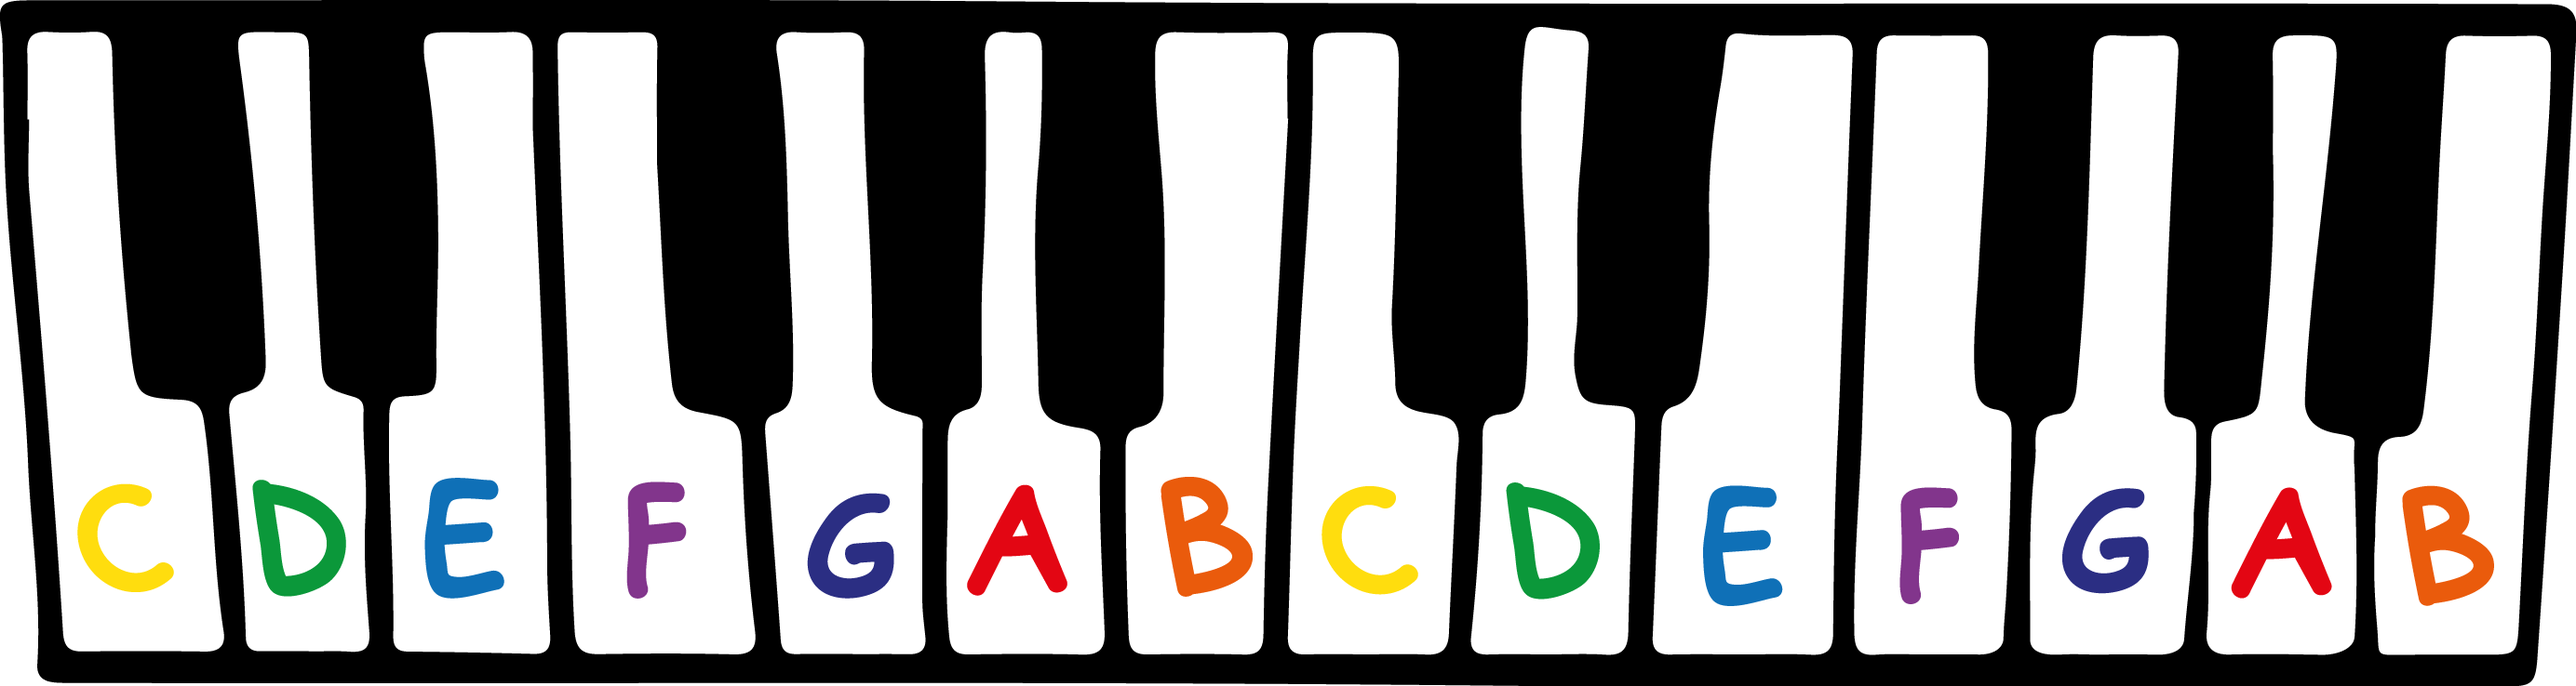
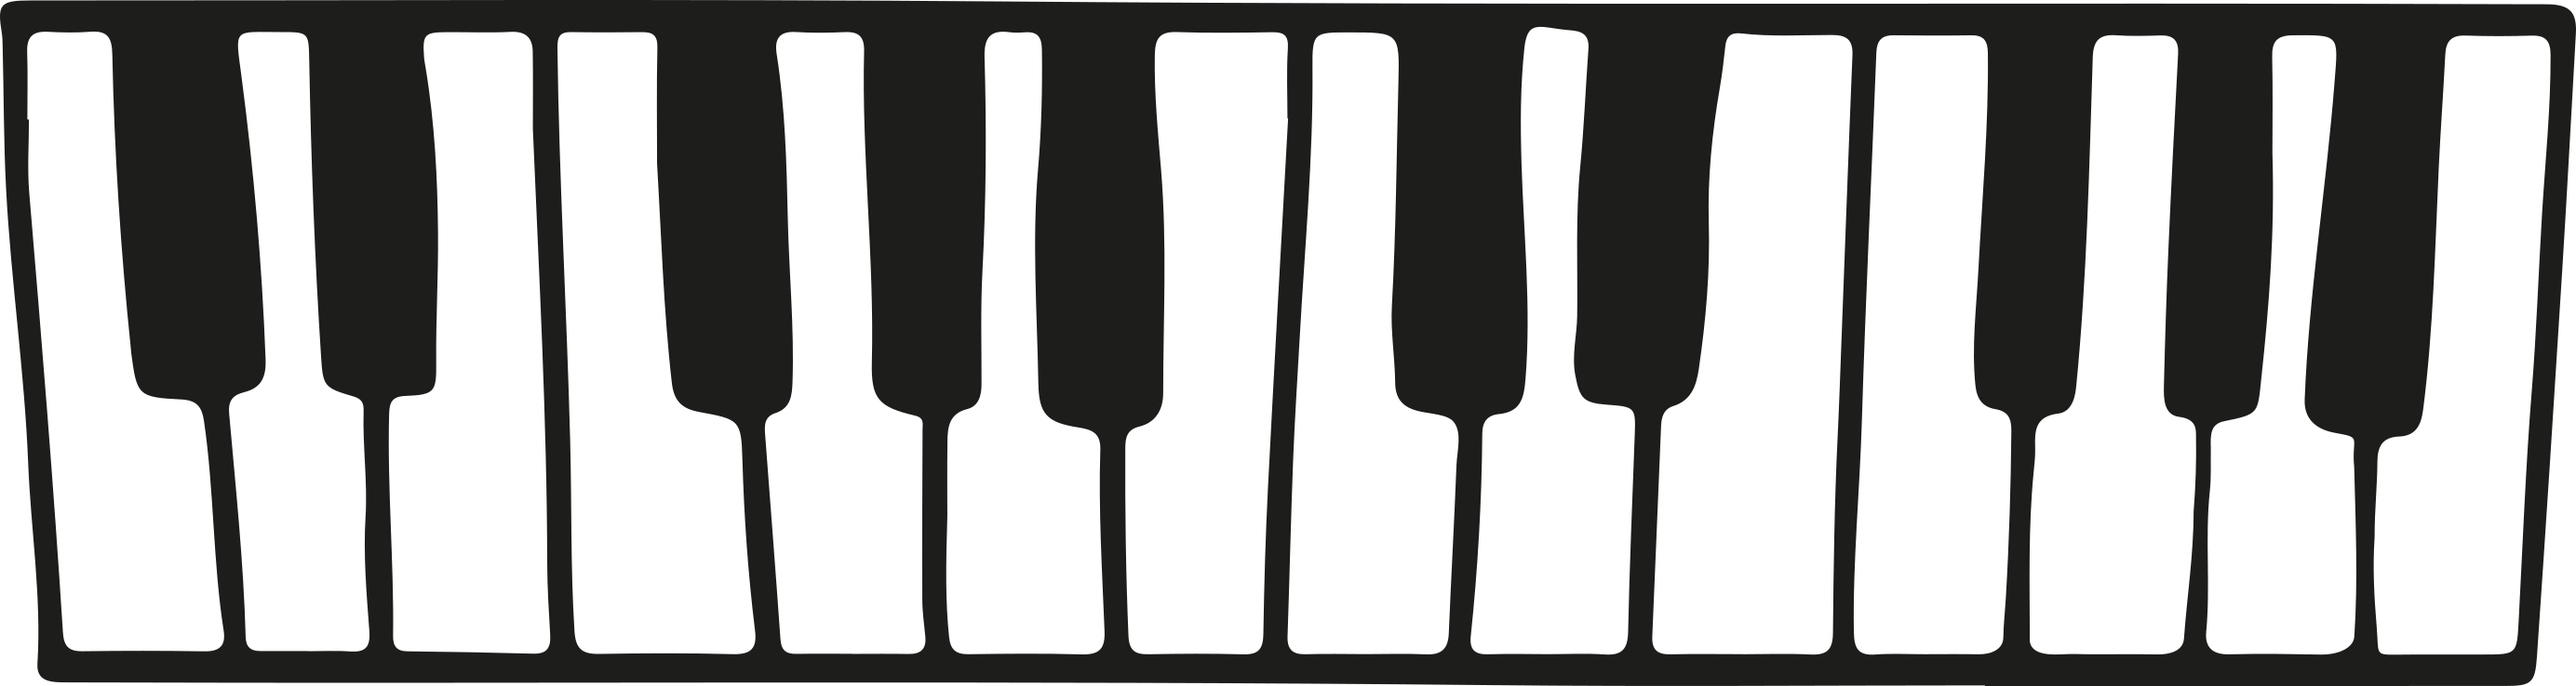
Update piano-keys printable to be internationally applicable

diff --git a/csunplugged/resources/generators/PianoKeysResourceGenerator.py b/csunplugged/resources/generators/PianoKeysResourceGenerator.py
@@ -1,73 +1,45 @@
 """Class for Piano Keys resource generator."""
 
 from PIL import Image, ImageDraw
-from resources.utils.BaseResourceGenerator import BaseResourceGenerator
-from utils.bool_to_yes_no import bool_to_yes_no
+from utils.str_to_bool import str_to_bool
+from utils.TextBoxDrawer import TextBoxDrawer, TextBox
 from django.utils.translation import ugettext as _
+from resources.utils.BaseResourceGenerator import BaseResourceGenerator
 from resources.utils.resource_parameters import EnumResourceParameter
 
-KEY_DATA = {
-    "A": {
-        "colour": "hsl(356, 95%, 85%)",
-        "areas": [
-            ((1002, 21), (1005, 711), (1200, 716), (1193, 15)),
-            ((2392, 15), (2356, 720), (2541, 720), (2552, 17)),
-        ],
-    },
-    "B": {
-        "colour": "hsl(21, 90%, 85%)",
-        "areas": [
-            ((1193, 15), (1200, 716), (1369, 719), (1400, 15)),
-            ((2552, 17), (2541, 720), (2713, 720), (2756, 20)),
-        ],
-    },
-    "C": {
-        "colour": "hsl(52, 100%, 85%)",
-        "areas": [
-            ((15, 15), (51, 711), (255, 715), (186, 21)),
-            ((1395, 24), (1371, 720), (1566, 717), (1590, 18)),
-        ],
-    },
-    "D": {
-        "colour": "hsl(140, 87%, 85%)",
-        "areas": [
-            ((186, 21), (255, 715), (408, 714), (390, 15)),
-            ((1590, 18), (1566, 717), (1760, 718), (1794, 12)),
-        ],
-    },
-    "E": {
-        "colour": "hsl(205, 85%, 85%)",
-        "areas": [
-            ((390, 15), (408, 714), (603, 717), (585, 12)),
-            ((1794, 12), (1760, 718), (1979, 720), (2004, 19)),
-        ],
-    },
-    "F": {
-        "colour": "hsl(293, 45%, 85%)",
-        "areas": [
-            ((585, 12), (603, 717), (828, 720), (717, 15)),
-            ((2004, 19), (1979, 720), (2163, 720), (2192, 15)),
-        ],
-    },
-    "G": {
-        "colour": "hsl(238, 51%, 85%)",
-        "areas": [
-            ((717, 15), (828, 720), (1005, 711), (1002, 21)),
-            ((2192, 15), (2163, 720), (2356, 720), (2392, 15)),
-        ],
-    },
-}
 
-HIGHLIGHT_VALUES = {
-    "no": _("None"),
-    "A": "A",
-    "B": "B",
-    "C": "C",
-    "D": "D",
-    "E": "E",
-    "F": "F",
-    "G": "G"
+KEY_LABELS = {
+    "no": _("Blank"),
+    "type-1": ["C",  "D",  "E",  "F",  "G",   "A",   "B"],
+    "type-2": ["C",  "D",  "E",  "F",  "G",   "A",   "H"],
+    "type-3": ["Do", "Re", "Mi", "Fa", "So",  "La",  "Ti"],
+    "type-4": ["Do", "Re", "Mi", "Fa", "Sol", "La",  "Si"],
 }
+KEY_AREAS = [
+    ([(65, 493), (220, 493), (65, 632), (220, 632)], 157, 140),
+    ([(255, 493), (390, 493), (255, 632), (390, 632)], 125, 140),
+    ([(424, 493), (582, 493), (424, 632), (582, 632)], 159, 140),
+    ([(617, 493), (792, 493), (617, 632), (792, 632)], 180, 140),
+    ([(836, 493), (985, 493), (836, 632), (985, 632)], 155, 140),
+    ([(1024, 493), (1175, 493), (1024, 632), (1175, 632)], 159, 140),
+    ([(1213, 493), (1355, 493), (1213, 632), (1355, 632)], 145, 140),
+    ([(1392, 493), (1557, 493), (1392, 632), (1557, 632)], 167, 140),
+    ([(1591, 493), (1744, 493), (1591, 632), (1744, 632)], 157, 140),
+    ([(1784, 493), (1966, 493), (1784, 632), (1966, 632)], 184, 140),
+    ([(1998, 493), (2154, 493), (1998, 632), (2154, 632)], 157, 140),
+    ([(2185, 493), (2351, 493), (2185, 632), (2351, 632)], 169, 140),
+    ([(2378, 493), (2526, 493), (2378, 632), (2526, 632)], 150, 140),
+    ([(2556, 493), (2709, 493), (2556, 632), (2709, 632)], 154, 140),
+]
+LABEL_COLOURS = [
+    "#ffdd0e",
+    "#0b983a",
+    "#0f70b7",
+    "#82358c",
+    "#2b2e83",
+    "#e30613",
+    "#ea5b0c",
+]
 
 
 class PianoKeysResourceGenerator(BaseResourceGenerator):
@@ -77,10 +49,10 @@ class PianoKeysResourceGenerator(BaseResourceGenerator):
     def get_additional_options(cls):
         """Additional options for PianoKeysResourceGenerator."""
         return {
-            "highlight": EnumResourceParameter(
-                name="highlight",
-                description=_("Piano keys to highlight"),
-                values=HIGHLIGHT_VALUES,
+            "label": EnumResourceParameter(
+                name="label",
+                description=_("Piano key labels"),
+                values=create_key_labels(),
                 default=False
             )
         }
@@ -91,30 +63,38 @@ class PianoKeysResourceGenerator(BaseResourceGenerator):
         Returns:
             A list of dictionaries for each resource page.
         """
-        highlight = self.options["highlight"].value
+        label_type = self.options["label"].value
         image_path = "static/img/resources/piano-keys/keyboard.png"
         image = Image.open(image_path)
-        page = Image.new("RGB", image.size, "#FFF")
+        if str_to_bool(label_type):
+            self.label_keys(image, label_type)
+        image = image.rotate(90, expand=True)
+        return {"type": "image", "data": image}
 
-        if highlight != "no":
-            self.highlight_key_areas(page, KEY_DATA.get(highlight))
-
-        # Add piano keys overlay
-        page.paste(image, mask=image)
-
-        page = page.rotate(90, expand=True)
-        return {"type": "image", "data": page}
-
-    def highlight_key_areas(self, image, key_data):
-        """Highlights the page of keys.
+    def label_keys(self, image, label_type):
+        """Label keys on image.
 
         Args:
-            image: PillowImage of page.
-            key_data: Dictionary of highlight colour and areas (dict).
+            image (Image): PillowImage of image.
+            label_type (str): Key of label type.
         """
         draw = ImageDraw.Draw(image)
-        for area in key_data["areas"]:
-            draw.polygon(area, fill=key_data["colour"])
+        textbox_drawer = TextBoxDrawer(image, draw)
+        labels = KEY_LABELS[label_type]
+        for index, (vertices, width, height) in enumerate(KEY_AREAS):
+            position = index % 7
+            box = TextBox(
+                vertices,
+                width,
+                height,
+                color=LABEL_COLOURS[position],
+                font_size=120,
+            )
+            textbox_drawer.write_text_box(
+                box,
+                labels[position],
+                horiz_just="center",
+            )
 
     @property
     def subtitle(self):
@@ -126,7 +106,22 @@ class PianoKeysResourceGenerator(BaseResourceGenerator):
         Returns:
             text for subtitle (str).
         """
-        return "{} highlight - {}".format(
-            bool_to_yes_no(self.options["highlight"].value),
+        return "{} labels - {}".format(
+            self.options["label"].value,
             super().subtitle
         )
+
+
+def create_key_labels():
+    """Return dictionary of option labels.
+
+    Returns:
+        Dictionary of values used for options.
+    """
+    labels = dict()
+    for key, data in KEY_LABELS.items():
+        if type(data) is list:
+            labels[key] = ", ".join(data)
+        else:
+            labels[key] = data
+    return labels
